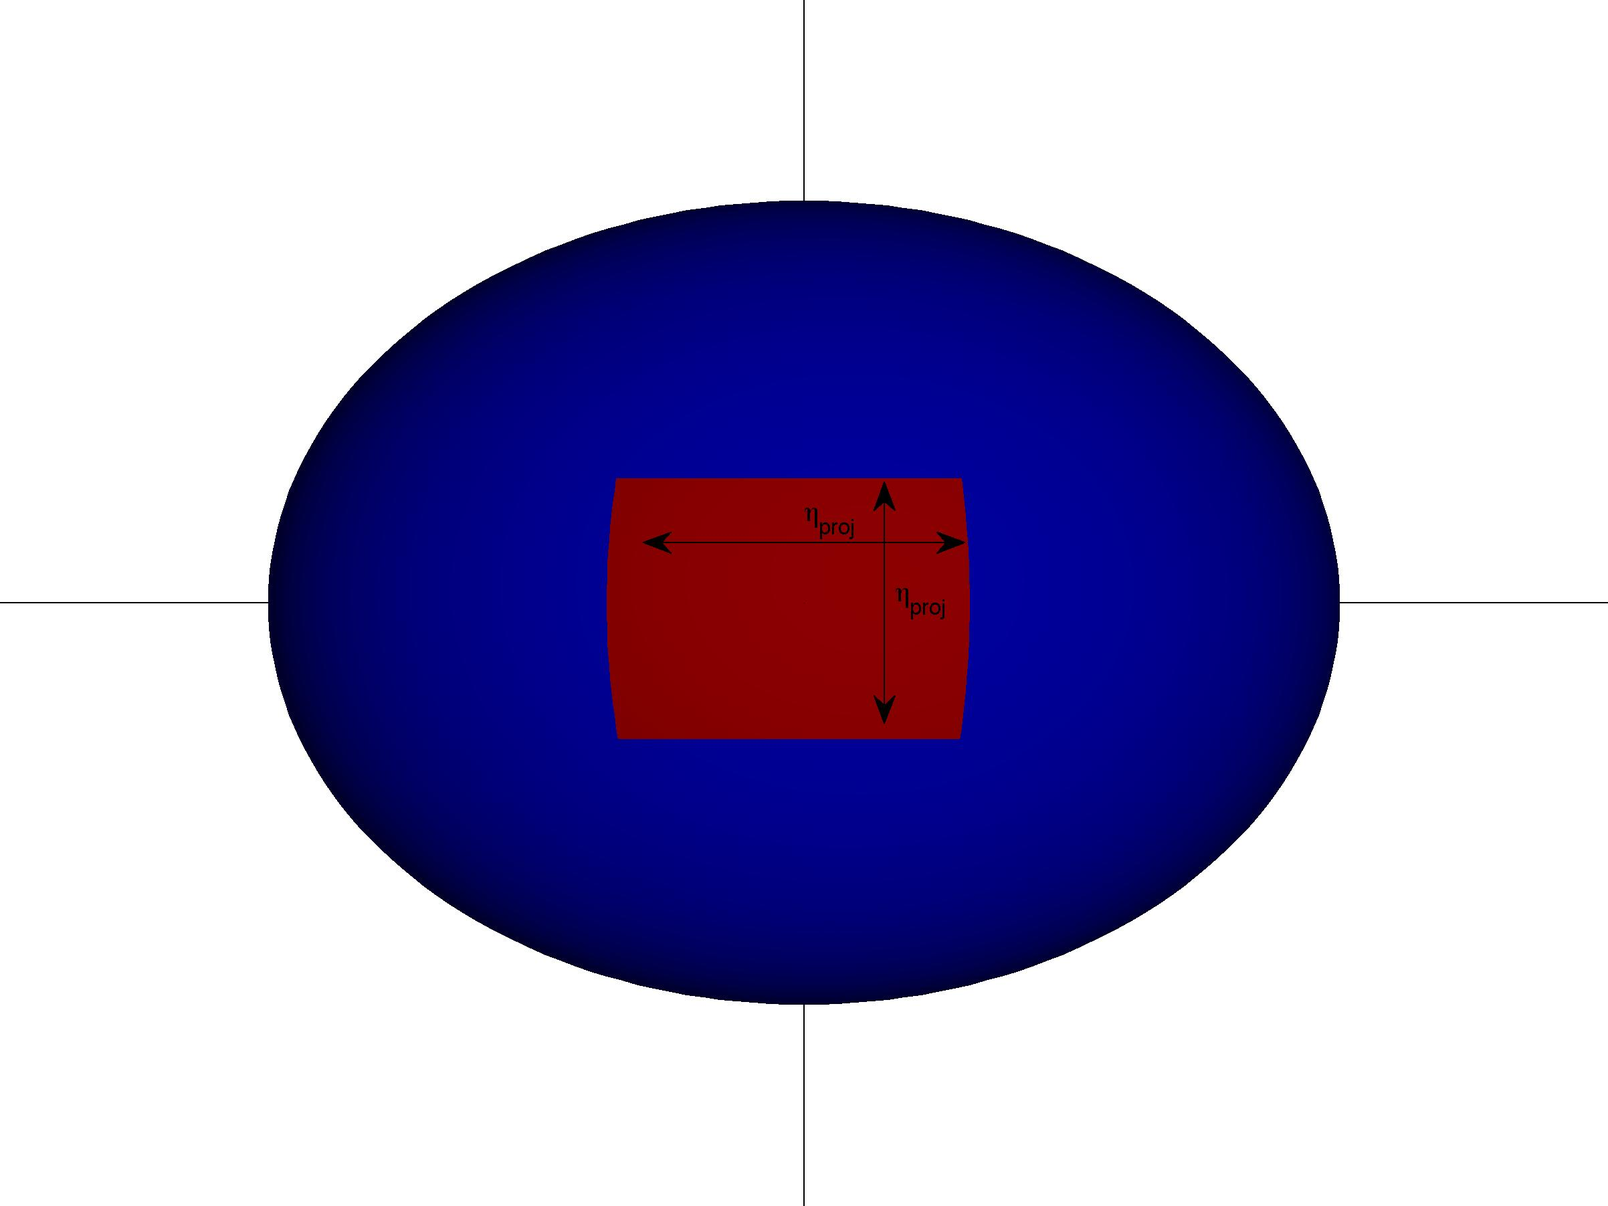
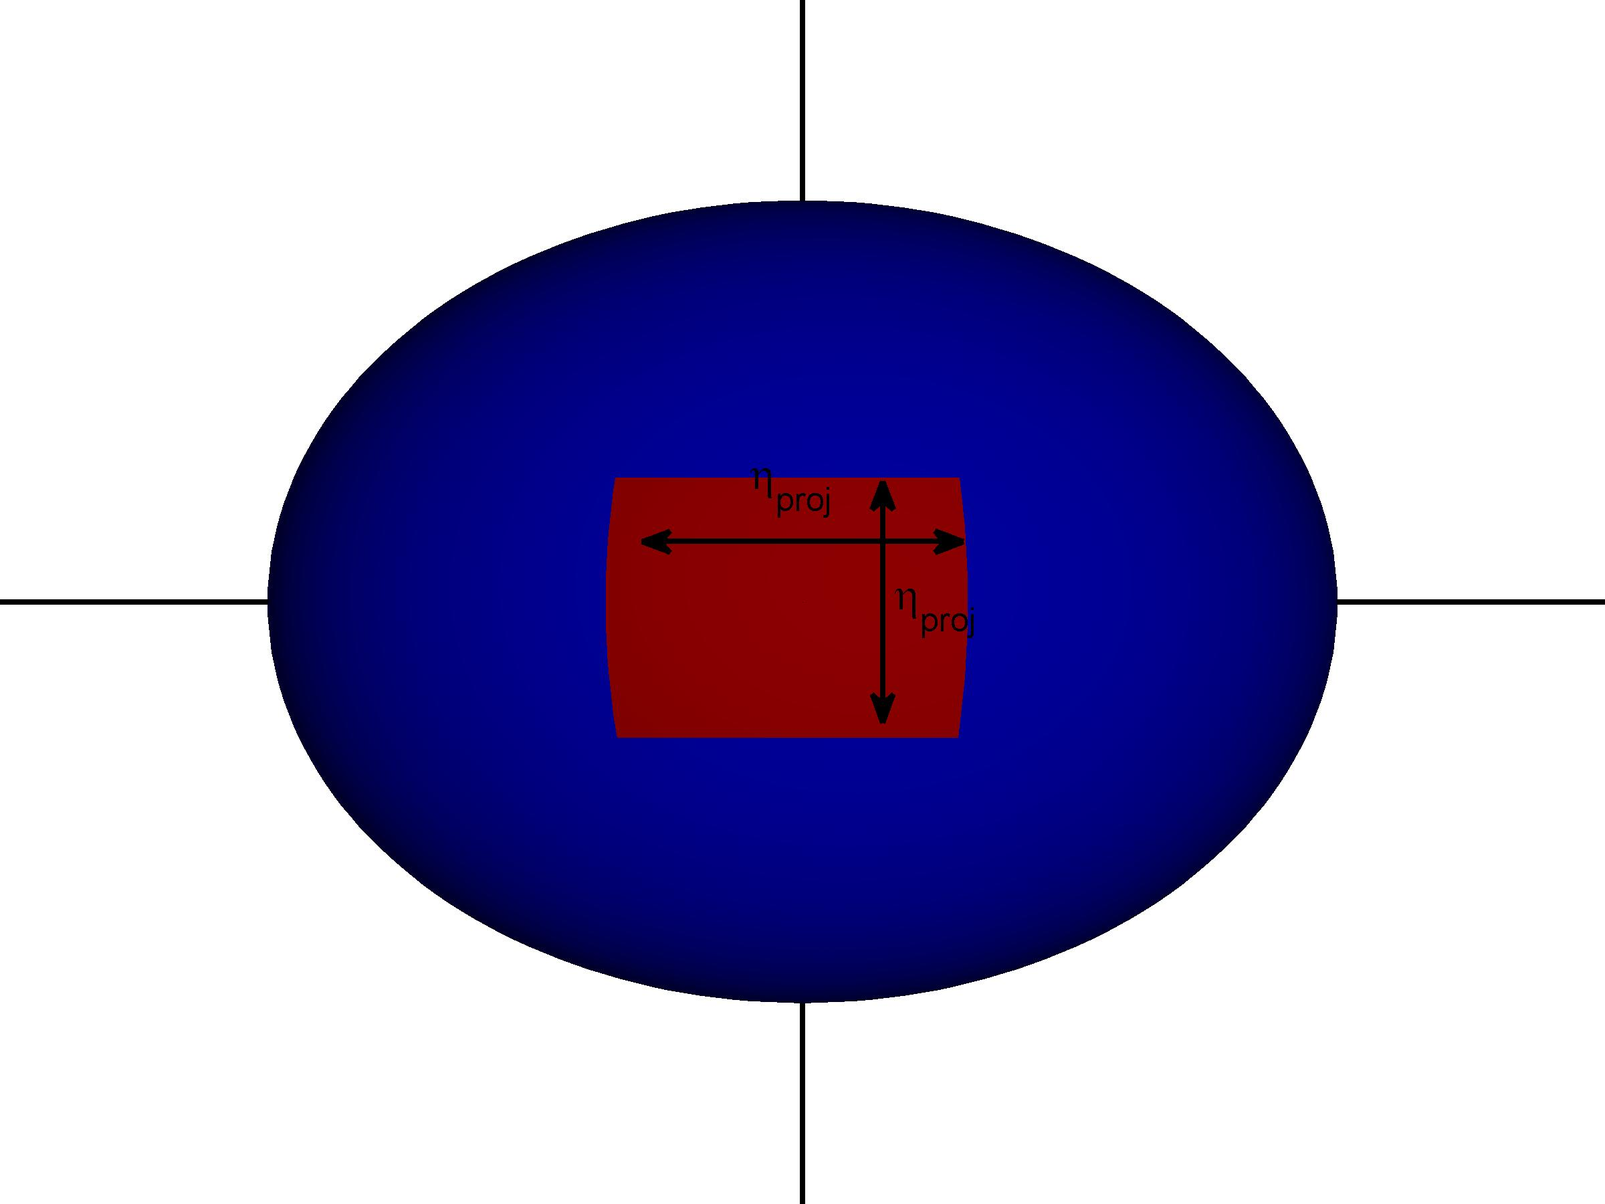
Updated math for paper

Changed region(s): [[0.4062, 0.3733, 0.625, 0.5911], [0.8438, 0.4978, 1.0, 0.5289], [0.0, 0.4978, 0.1562, 0.5289]]

diff --git a/image_analysis_paper/math_description.tex b/image_analysis_paper/math_description.tex
@@ -47,13 +47,13 @@ Because we consider {\em all} pairwise alignments, angular synchronization is of
 
 We will first discuss angular synchronization {\em only} considering rotations. 
 %
-Let $x_1, \dots, x_m \in \mathbb{R}^x$ denote the signals that we wish to align with respect to rotations.
+Let $x_1, \dots, x_m \in \mathbb{R}^n$ denote the signals that we wish to align with respect to rotations.
 %
 We assume that each signal $x_i$ is a noisy rotated copy of the underlying signal $x_{true}$ (which we are {\em not} given), such that 
 \begin{equation}
 x_i = f(x_{true}, \theta_i) + \xi_i
 \end{equation}
-where $f(x_{true}, \theta_i)$ rotates the signal $x_{true}$ by $\theta_i$ degrees, and $\xi_i$ is a noise term (often Gaussian noise). 
+where the function $f(x_{true}, \theta_i)$ rotates the signal $x_{true}$ by $\theta_i$ degrees, and $\xi_i$ is a noise term (often Gaussian noise). 
 %
 Our goal is to obtain estimates of $\theta_1, \dots, \theta_m$ so that we can align $x_1, \dots, x_m$. 
 %
@@ -63,7 +63,7 @@ x_i \approx f(x_j, \theta_i - \theta_j) ;
 \end{equation}
  note that \eqref{eq:pairwise_rot} does not require knowledge of $x_{true}$.
 %
-We can obtain {\em estimates} of $\theta_i - \theta_j$ by computing the rotations to optimally align $x_j$ to $x_i$, 
+We can obtain an {\em estimate} of $\theta_i - \theta_j$ by computing the rotation that optimally aligns $x_j$ to $x_i$, 
 i.e., $\theta_{ij} \approx \theta_i - \theta_j$, where
 %
 \begin{equation} \label{eq:opt_angle}
@@ -78,13 +78,13 @@ R(\theta_{ij}) = \begin{bmatrix}
 \end{bmatrix}
 \end{equation}
 %
-Successive rotations correspond to multiplication of the rotation matrices, i.e., 
+Successive rotations now correspond to multiplication of rotation matrices, i.e., 
 $R(\alpha_1 + \alpha_2) = R(\alpha_1) R(\alpha_2)$,
 and, due to the orthogonality of rotation matrices, $R(-\alpha) = R(\alpha)^T$.
 
-Let $d$ denote the dimension of the rotation matrices we are considering (for our example of planar rotations, $R(\theta_{ij}) \in \mathbb{R}^{2 \times 2}$ and $d=2$; we describe this for general $d$ because we will later consider three--dimensional rotations).
+Let $d$ denote the dimension of the rotation matrices we are considering (for our example of planar rotations, $R(\theta_{ij}) \in \mathbb{R}^{2 \times 2}$ and $d=2$; we will write our procedure for general $d$ because we will later consider three--dimensional rotations).
 %
-We then construct the matrix $H \in \mathbb{R}^{md \times md}$, where $H$ is an $m \times m$ matrix of $d \times d$ blocks with
+We construct the matrix $H \in \mathbb{R}^{md \times md}$, where $H$ is an $m \times m$ matrix of $d \times d$ blocks with
 \begin{equation} \label{eq:H_to_R}
 H_{ij} = R(\theta_{ij})
 \end{equation}
@@ -105,14 +105,14 @@ H_{ij} = R(\theta_{ij}) \approx R(\theta_i - \theta_j) = R(\theta_i) R(-\theta_j
 	\end{bmatrix}
 	\begin{bmatrix}
 	R(\theta_1)^T R(\theta_2)^T \dots R(\theta_m)^T
-	\end{bmatrix}
+	\end{bmatrix}.
 \end{equation}
 %
-We can (approximately) recover $R(\theta_1), R(\theta_2), \dots, R(\theta_m)$ by computing the top block eigenvector of $H$, which we will denote $\hat{R}$.
+From \eqref{eq:H_low_rank}, we can see that we can (approximately) recover $R(\theta_1), R(\theta_2), \dots, R(\theta_m)$ by computing the top block eigenvector of $H$, which we will denote $\hat{R}$.
 %
-Let $\phi_1, \phi_2, \dots, \phi_{md}$ denote the eigenvectors of $H$, ordered such that $\lambda_1 \ge \lambda_2 \ge \dots \ge \lambda_{md}$, where $\lambda_i$ is the eigenvalue corresponding to $\phi_i$. 
+Let $\phi_1, \phi_2, \dots, \phi_{md}$ denote the eigenvectors of $H$, ordered such that $|\lambda_1| \ge |\lambda_2| \ge \dots \ge |\lambda_{md}|$, where $\lambda_i$ is the eigenvalue corresponding to $\phi_i$. 
 %
-Then
+Then the top block eigenvector of $H$, $\hat{R}$, can be written as
 \begin{equation}
 \hat{R} = 
 \begin{bmatrix}
@@ -125,11 +125,11 @@ Then
 | & | & & | \\
 \phi_1 & \phi_2 & \dots & \phi_d \\
 | & | & & | 
-\end{bmatrix}
+\end{bmatrix},
 \end{equation}
-where $\hat{R}_i \in \mathbb{R}^{d \times d}$ is the estimate for $R(\theta_i)$. 
+and $\hat{R}_i \in \mathbb{R}^{d \times d}$ is the estimate for $R(\theta_i)$. 
 %
-Becaus $\hat{R}_i$ is not guaranteed to be a rotation matrix, we project $\hat{R}_i$ onto the closest rotation matrix. 
+Because $\hat{R}_i$ is not guaranteed to be a rotation matrix, we must project $\hat{R}_i$ onto the closest rotation matrix \cite{...}. 
 %
 Let $U_i$ and $V_i$ denote the left and right singular vectors, respectively, of $\hat{R}_i$.
 %
@@ -137,13 +137,13 @@ Then
 \begin{equation}
 R_{i, est} = U_i V_i^T
 \end{equation} 
-where $R_{i, est}$ is our estimate of $R(\theta_i)$. 
+where $R_{i, est}$ is an orthonormal matrix and is our estimate of $R(\theta_i)$. 
 %
-Note that $R_{i, est}$ is not guaranteed to be a proper rotation; because we are permitted to scale the eigenvectors of a matrix, we adjust the sign of $\rho_d$ so that (most of) the rotations are proper. 
+Note that $R_{i, est}$ is not guaranteed to be a proper rotation (i.e. $det(R_{i, est} = \pm 1)$; because we are permitted to scale the eigenvectors of a matrix, we adjust the sign of $\\phi_d$ so that (most of) the rotations are proper. 
 %
-We can estimate $\theta_{i}$ by inverting \eqref{eq:R_theta}, and then register the signals by rotating image $i$ by $-\theta_i$. 
+We can now estimate $\theta_{i}$ by inverting \eqref{eq:R_theta}, and then register the signals by rotating signal $i$ by $-\theta_i$. 
 
-Furthermore, this eigendecomposition also considers {\em higher--order} consistency information. 
+Furthermore, this formulation also considers {\em higher--order} consistency information. 
 %
 For example, given our pairwise estimates $R_{ij}$, we know that relationships of the form
 \begin{equation} \label{eq:triplet_consistency}
@@ -151,15 +151,15 @@ R(\theta_{ik}) R(\theta_{kj}) \approx R(\theta_i) R(\theta_k)^T R(\theta_k) R(\t
 \end{equation}
 should also hold.
 %
-However, 
+Note that
 \begin{equation}
-(H^2)_{ij} = \sum_k R(\theta_{ik}) R(\theta_{kj})
+(H^2)_{ij} = \sum_k R(\theta_{ik}) R(\theta_{kj});
 \end{equation}
-and so {\em all} infomation of the form in \eqref{eq:triplet_consistency} is contained in the matrix $H^2$.
+therefore, {\em all} infomation of the form in \eqref{eq:triplet_consistency} is contained in the matrix $H^2$.
 %
 Because $H$ and $H^2$ have the same eigenvectors, our problem formulation accounts for not only pairwise alignment information, but also these higher--order considerations. 
 
-To illustrate how angular synchronization works, we have converted the two--dimensional images into concentration profiles on a ring (we will address the full two--dimensional images in a subsequent section). 
+To illustrate how angular synchronization works, we have converted the two--dimensional images shown in Figure \ref{fig:fluorescent_images} into concentration profiles on a ring (we will address the full two--dimensional images in a subsequent section). 
 %
 Figure \ref{subfig:1d_image_example} shows a typical image that we have converted to a one--dimensional concentration profile. 
 %
@@ -211,7 +211,7 @@ We will use diffusion maps (DMAPS) \cite{coifman2005geometric} to temporally ord
 %
 DMAPS aims to uncover a parameterization of high-dimensional data sampled from a low-dimensional nonlinear manifold.
 %
-In our framework, we assume that our data lie on a one--dimensional curve or manifold, and that this one dimension is correlated with time. 
+In our analysis, we will assume that our data lie on a one--dimensional curve or manifold, and that this one dimension is correlated with time. 
 %
 We will uncover a parameterization of this curve by only considering {\em local} neighbors of each data point.
 
@@ -219,7 +219,7 @@ To illustrate how local neighbors can allow us to uncover a global parameterizat
 %
 We consider $x_i$ ``close to'' $x_{i+1}$ and $x_{i-1}$, and $x_i$ ``far away from'' all other data points. 
 %
-We then construct the (symmetric) weight matrix, $W \in \mathbb{R}^{m \times m}$, where $W_{ij}$ is large if $x_i$ is close to $x_j$,
+We then construct the (symmetric) weight matrix, $W \in \mathbb{R}^{m \times m}$,
 \begin{equation}
 W = 
 \begin{bmatrix}
@@ -231,9 +231,11 @@ W =
 \end{bmatrix}.
 \end{equation}
 %
-If we normalize this matrix such that $\sum_j W_{ij} = 1$, then one can show that the first eigenvector of this normalized matrix is the all--ones vector, $\phi_1 = [1 1 \dots 1]^T$, and the second eigenvector is a cosine mode, $\phi_2 = [cos(\pi/m) \cos(2 \pi/ m) \dots \cos((m-1) \pi / m) \cos(\pi)]^T$.
+$W_{ij}$ is large if $x_i$ is close to $x_j$,
 %
-Therefore, the second eigenvector, $\phi_2$ is {\em one--to--one} with the parameterization of the data, i.e. $\phi_2(1) < \phi_2(2) < \dots < \phi_2(m)$, just as $x_1 < x_2 < \dots < x_m$. 
+If we normalize this matrix such that $\sum_j W_{ij} = 1$, then one can show that the first eigenvector of this normalized matrix is the all--ones vector, $\phi_1 = [1 1 \dots 1]^T$, and the second eigenvector is a cosine mode, $\phi_2 = [cos(\pi/m) \cos(2 \pi/ m) \cdots \cos((m-1) \pi / m) \cos(\pi)]^T$.
+%
+Therefore, the second eigenvector, $\phi_2$ is {\em one--to--one} with the parameterization of the data, i.e. $\phi_2(1) > \phi_2(2) > \dots > \phi_2(m)$, just as $x_1 < x_2 < \dots < x_m$. 
 %
 Therefore, sorting our data by the value of the entries in $\phi_2$ will allow us to order our data.
 
@@ -264,7 +266,7 @@ In our setup, we assume that our data are inherently one--dimensional, and that 
 %
 Therefore, ordering our data by $\phi_2(j)$ will allow us to automatically order our data in time. 
 
-We demonstrate how we can do this with our one--dimensional concentration profiles. 
+We demonstrate how we can apply these techniques to our (aligned)one--dimensional concentration profiles. 
 %
 We use the Euclidean distance between the aligned concentration profiles (the rows of Figure \ref{subfig:1d_aligned_unordered}) as our distances in \eqref{eq:dmaps_W}.
 %
@@ -293,9 +295,9 @@ The distance $d(x_i, x_j)$ used to compute $W_{ij}$ is the distance between samp
 
 We then compute the eigenvalues $\lambda_1, \lambda_2, \dots, \lambda_{md}$ and eigenvectors $\phi_1, \phi_2, \dots, \phi_{md}$ of $S$, and order them such that $|\lambda_1| \ge |\lambda_2| \ge \dots \ge |\lambda_{md}|$.
 %
-Again, the top (block) eigenvector of $S$ contains approximations of the optimal rotations for each image.
+Again, the top (block) eigenvector of $S$ contains approximations of the optimal rotations for each image, and the rotations can be computed as described in Section \ref{subsec:angsynch}.
 %
-However, we now also obtain embedding coordinates for our images.
+However, the eigenvectors now also contain information about the embedding coordinates for our images.
 %
 In general, the embedding coordinates are given by 
 \begin{equation}
@@ -321,7 +323,7 @@ The typical matrix representation for the group of two--dimensional translations
 %
 However, we can (approximately) represent rotations and translations in two--dimensions using three--dimensional rotation matrices.
 %
-We do this by projecting the image onto a portion of the surface of a (three--dimensional) sphere (see Appendix).
+We do this by projecting the image onto a portion of the surface of a (three--dimensional) sphere (see Figure \ref{fig:SO3_picture}).
 %
 Rotations in two--dimensions now correspond to rotations around one principal axis in three--dimensions, and translations in two--dimensions correspond (approximately) to rotations around the other two principal axes in three--dimensions \footnote{Clearly, not all translations can be described this way, as translations can range from $-\infty$ to $+ \infty$, and rotations are only from $0$ to $2 \pi$. However, the images we will be considering are already mostly centered, and so we are only interested in small translations that are well within the $[0, 2\pi)$ range.}.
 %
@@ -374,9 +376,9 @@ dy \in [-\Delta, \Delta]
 \end{equation}
 where $\| \cdot \|_F$ denotes the Frobenius norm, $\Delta$ is the maximum number of pixels by which we are allowed to translate the image, and $g(I_j, \theta, dx, dy)$ is a function that first rotates the image $I_j$ by $\theta$ degrees, then translates the image by $dx$ pixels in the $x$ direction, and finally translates the image by $dy$ pixels in the $y$ direction. 
 %
-The image rotation is done with the \texttt{imrotate} function in Matlab, using nearest neighbor interpolation to interpolate the intensities of the pixels (since there is no direct mapping of the pixels of the unrotated image to the pixels of the rotated image).
+The image rotation is done with the \texttt{imrotate} function in Matlab, using nearest neighbor interpolation to estimate the pixel intensities, since there is no direct mapping of the pixels of the unrotated image to the pixels of the rotated image.
 %
-Also, the missing pixels in the rotated image due to corner effects are taken to be black.
+The missing pixels in the rotated image due to corner effects are taken to be black.
 %
 The translations are done by shifting the pixels with periodic boundary conditions.
 %
@@ -386,7 +388,7 @@ We only consider shifts that correspond to an integer number of pixels, to remov
 
 The solution to \eqref{eq:opt_pairwise} is not easily computed, as the objective function will most likely be nonconvex.
 %
-Therefore, instead of using an optimization procedure to compute the solution to \eqref{eq:opt_pairwise}, we choose to discretize the search space and exhaustively search to estimate the solution to \eqref{eq:opt_pairwise}.
+Therefore, instead of using an optimization procedure to compute the solution to \eqref{eq:opt_pairwise}, we choose to discretize the search space and exhaustively search to estimate the solution.
 %
 We discritize the search space of rotations into 20 possible rotations ($d\theta  \in \{0, \pi/10, \pi/5, \dots, 9 \pi/5, 19\pi/10 \}$), and 11 possible translations in both the $x$ and $y$ directions ($dx, dy \in \{-20, -16, -12, \dots, 12, 16, 20 \}$). 
 %
@@ -422,6 +424,7 @@ Since our techniques are robust to noise, close approximations will be sufficien
 \caption{}
 \end{subfigure}
 \caption{Illustration of how rotations in three dimensions correspond to translations and rotations in two dimensions. (a) The original image. (b) Rotation around the x--axis (Euler angle $\alpha$) in three dimensions corresponds to rotation of the image. (c) Rotation around the y--axis (Euler angle $\beta$) in three dimensions corresponds to horizontal translation. (d) Rotation around the z--axis (Euler angle $\gamma$) in three dimensions corresponds to vertical translation. The top row shows the three--dimensional spheres, and the bottom row shows the (two--dimensional) surface of the sphere in which we are interested.}
+\label{fig:SO3_picture}
 \end{figure}
 
 As discussed in Section \ref{subsec:trans_rot_register}, the underlying symmetry group needs to have a real and orthoganol matrix representation. 
@@ -443,41 +446,40 @@ We take $\eta_{proj} =  \pi/8$, so the image lies on a $\pi/8 \times \pi/8$ radi
 From here, we can write rotations around the three principal axes in terms of the three Euler angles
 \begin{equation}
 \begin{aligned}
-	R^x_{ij} &= \begin{bmatrix}
+	R^x(\alpha) &= \begin{bmatrix}
 	1 & 0 & 0 \\
     0 & \cos(\alpha) & -\sin(\alpha) \\
     0 & \sin(\alpha) & \cos(\alpha)
 	\end{bmatrix} \\
-	R^y_{ij} &= \begin{bmatrix}
+	R^y(\beta) &= \begin{bmatrix}
 	\cos(\beta) & 0 & \sin(\beta) \\
     0 & 1 & 0 \\
     -\sin(\beta) & 0 & \cos(\beta)
     \end{bmatrix} \\
-	R^z_{ij} &= \begin{bmatrix} 
+	R^z(\gamma) &= \begin{bmatrix} 
 	\cos(\gamma) & -\sin(\gamma) & 0 \\
     \sin(\gamma) & \cos(\gamma) & 0 \\
     0 & 0 & 1 
     \end{bmatrix}
 \end{aligned}
 \end{equation}
-where $R^x_{ij}$, $R^y_{ij}$, and $R^z_{ij}$ correspond to rotations around the $x$, $y$, and $z$ axes, respectively.
+where $R^x(\alpha)$, $R^y(\beta)$, and $R^z(\gamma)$ correspond to rotations around the $x$, $y$, and $z$ axes, respectively.
 %
 We then write the total rotation $R_{ij} \in SO(3)$ as 
 \begin{equation} \label{eq:total_rot}
-	R_{ij}	 = R^z_{ij} \times R^y_{ij} \times R^x_{ij}
+	R(\alpha_{ij}, \beta_{ij}, \gamma_{ij})	 = R^z(\gamma_{ij})  R^y(\beta_{ij})  R^x(\alpha_{ij})
 \end{equation}
 %
 \eqref{eq:total_rot} corresponds to first rotating the image by $\theta$, then translating the image by $dx$ pixels in the $x$ direction, and finally translating the image by $dy$ pixels in the $y$ direction (we note that, because the rotation matrices operate from the left, the rightmost rotation matrix in the product in \eqref{eq:total_rot} corresponds to the first operation we perform on the image).
 
 \section{Computing Optimal Translations and Rotations from the Eigenvectors of $H$}
 
-We then compute the three--dimensional rotation, $R_{ij} \in SO(3)$, from the two--dimensional translation and rotation parameters $\theta_{ij}$, $dx_{ij}$, and $dy_{ij}$ (see Appendix for more details).
+From the three--dimensional rotation matrices $R(\alpha_{ij}, \beta_{ij}, \gamma_{ij})$,
+we build the matrix $H$ and compute the estimates $R_{i, est}$ as described in Section \ref{subsec:angsynch}.
 %
-We then build the matrix $H$ and compute the estimates $R_{i, est}$ as described in Section \ref{subsec:angsynch}.
+From the matrices $R_{1, est}, \dots, R_{m, est}$, we now wish to find the corresponding translations and rotations of the images.
 %
-From the matrices $R_{1, opt}, \dots, R_{m, opt}$, we now wish to find the corresponding translations and rotations of the images.
-%
-Because we are permitted to adjust our rotations by a global rotations, we first multiply all rotations by $R_1^T$ to ensure that all the images are (approximately) in the region of the sphere where we began.
+Because we are permitted to adjust our rotations by a global rotations, we first multiply all rotations by $R_{1, est}^T$ to ensure that all the images are (approximately) in the region of the sphere where we began.
 %
 We then compute the Euler angles $\alpha$, $\beta$, and $\gamma$ from the rotation matrix $R$ using the following relationships
 \begin{equation}
@@ -492,7 +494,7 @@ R_{3,3} & = \cos(\alpha)\cos(\beta)
 %
 We can then invert \eqref{eq:angle_relations} to compute the optimal translation and rotation for each image from the Euler angles.
 %
-We round the optimal translations to the nearest integer.
+We round the optimal translations to the nearest integer to remove the need for interpolation when translating the images. 
 
 \bibliographystyle{plain}
 \bibliography{../../references/references}

diff --git a/image_analysis_paper/make_sphere.m b/image_analysis_paper/make_sphere.m
@@ -4,6 +4,10 @@ close all
 res = '-r300';
 fmt = '-djpeg';
 
+%set(0,'DefaultLineMarkerSize',8)
+%set(0,'DefaultLineLineWidth',2)
+%set(0,'DefaultAxesFontSize',20)
+
 im_save_dir = 'paper_figures';
 
 n = 100;
@@ -20,10 +24,13 @@ dir = [0 0 0;
     0 1 0;
     0 0 1;
     1 0 0];
+theta = 0:0.1:pi;
+r = 0.2;
+r1 = 1.25;
 
 for i=1:4
     figure;
-    set(gcf, 'papersize', [1 1])
+    set(gcf, 'papersize', [0.1 0.1])
     h = surf(X, Y, Z, C, 'edgecolor','none');
     set(gca,'position',[0 0 1 1],'units','normalized')
     camlight(45, -20);
@@ -32,16 +39,34 @@ for i=1:4
     
     axis off
     hold on
-    plot3(v1, v0, v0, 'k')
-    plot3(v0, v1, v0, 'k')
-    plot3(v0, v0, v1, 'k')
+    plot3(v1, v0, v0, 'k', 'linewidth', 2)
+    plot3(v0, v1, v0, 'k', 'linewidth', 2)
+    plot3(v0, v0, v1, 'k', 'linewidth', 2)
     
     if i > 1
         rotate(h,dir(i, :),25)
     end
+    if i == 2
+        plot3(r*cos(theta), -r1*ones(size(theta)),r*sin(theta), 'linewidth', 2)
+        plot3(r*cos(theta(end)), -r1,r*sin(theta(end)), '>', 'linewidth', 2, 'markerfacecolor','b')
+        text(-r-0.25, -r1, r+0.25,  '\alpha', 'color','b', 'fontsize', 24)
+        
+    end
+    
+    if i == 3
+        plot3(r*cos(theta), r*sin(theta), -r1*ones(size(theta)), 'linewidth', 2)
+        plot3(r*cos(theta(end)), r*sin(theta(end)), -r1, '<', 'linewidth', 2, 'markerfacecolor','b')
+        text(0, r+0.05, -r1-0.5, '\beta', 'color','b', 'fontsize', 24)
+    end
+    if i == 4
+        plot3(-r1*ones(size(theta)), r*sin(theta), r*cos(theta), 'linewidth', 2)
+        plot3(-r1, r*sin(theta(end)), r*cos(theta(end)), '<', 'linewidth', 2, 'markerfacecolor','b')
+        text(-r1, -r, -r-0.1, '\gamma', 'color','b', 'fontsize', 24)
+    end
     
     print(sprintf('%s/sphere_%d', im_save_dir, i), fmt, res)
 end
+
 
 figure;
 for i=1:4
@@ -64,9 +89,25 @@ for i=1:4
     else
         annotation('doublearrow', [0.4 0.6], [0.55 0.55],'color','w')
         annotation('doublearrow', [0.55 0.55], [0.4 0.6],'color','w')
-        text(0, -1, 0.2, '\eta_{proj}','color','w')
-        text(0.17, -1, 0, '\eta_{proj}','color','w')
+        text(-0.1, -1, 0.3, '\eta_{proj}','color','w', 'fontsize', 16)
+        text(0.17, -1, 0, '\eta_{proj}','color','w', 'fontsize', 16)
+    end
+    if i == 2
+        plot3(r*cos(theta), -r1*ones(size(theta)),r*sin(theta), 'linewidth', 2)
+        plot3(r*cos(theta(end)), -r1,r*sin(theta(end)), '>', 'linewidth', 2, 'markerfacecolor','b')
+        text(-r-0.05, -r1, r+0.05,  '\alpha', 'color','b', 'fontsize', 24)
         
+    end
+    
+    if i == 3
+        plot3(r*cos(theta), r*sin(theta), -r1*ones(size(theta)), 'linewidth', 2)
+        plot3(r*cos(theta(end)), r*sin(theta(end)), -r1, '<', 'linewidth', 2, 'markerfacecolor','b')
+        text(0, r+0.05, -r1-0.1, '\beta', 'color','b', 'fontsize', 24)
+    end
+    if i == 4
+        plot3(-r1*ones(size(theta)), r*sin(theta), r*cos(theta), 'linewidth', 2)
+        plot3(-r1, r*sin(theta(end)), r*cos(theta(end)), 'v', 'linewidth', 2, 'markerfacecolor','b')
+        text(-r1, -r, -r-0.1, '\gamma', 'color','b', 'fontsize', 24)
     end
     view(0, 0)
     

diff --git a/image_analysis_paper/make_figures_large_dataset_1d.m b/image_analysis_paper/make_figures_large_dataset_1d.m
@@ -49,6 +49,10 @@ for i=2:m
     dpERK_unaligned(i,:) = circshift(dpERK(i,:),[0 rand_offsets(i)]);
 end
 
+% dpERK_unaligned = [dpERK_unaligned; fliplr(dpERK_unaligned)];
+% mem_lengths = [mem_lengths; mem_lengths];
+% ranks_from_membranes = compute_ranks(mem_lengths);
+
 %%
 figure;
 set(gcf, 'paperposition',[0 0 8 8])
